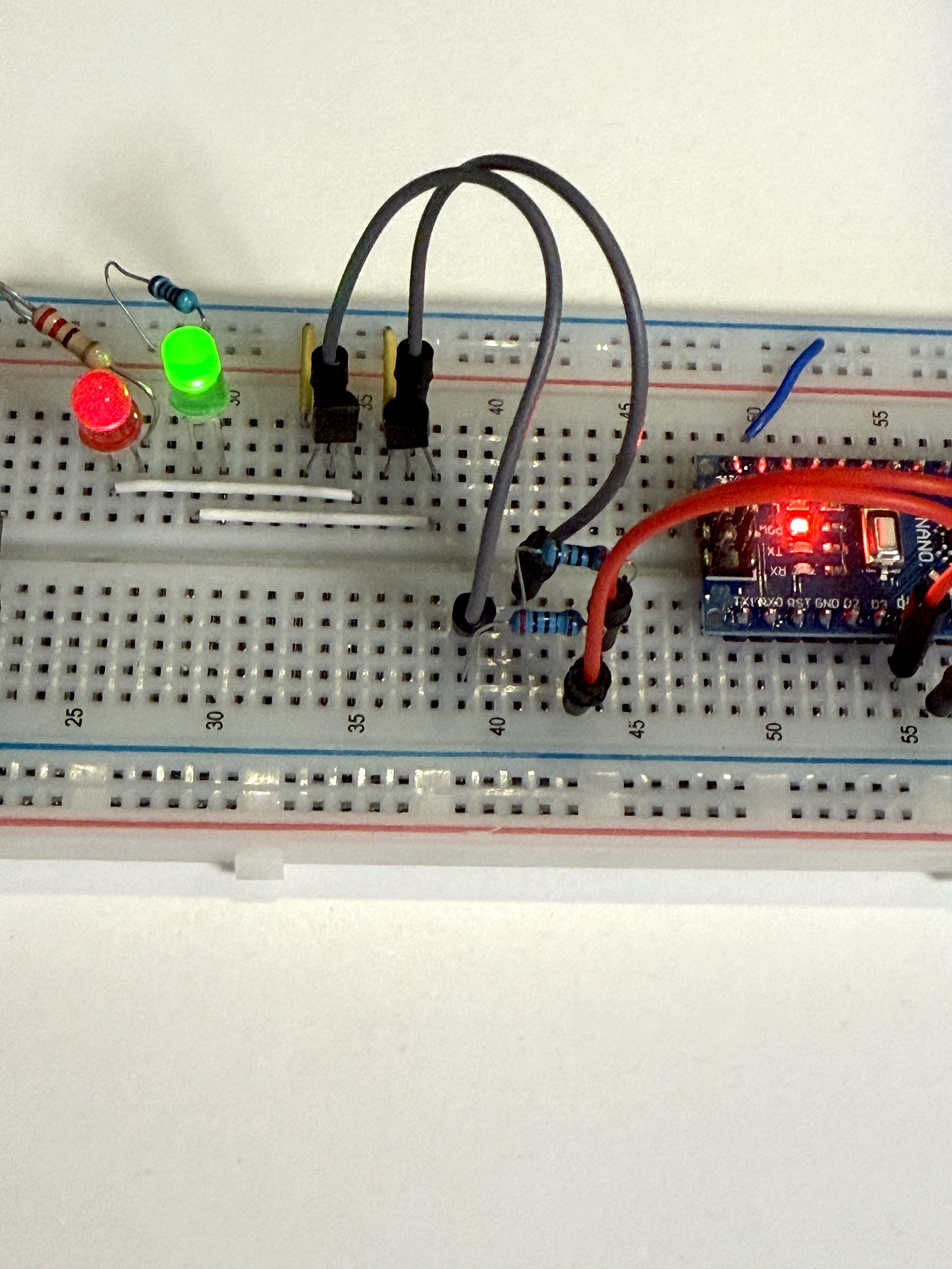
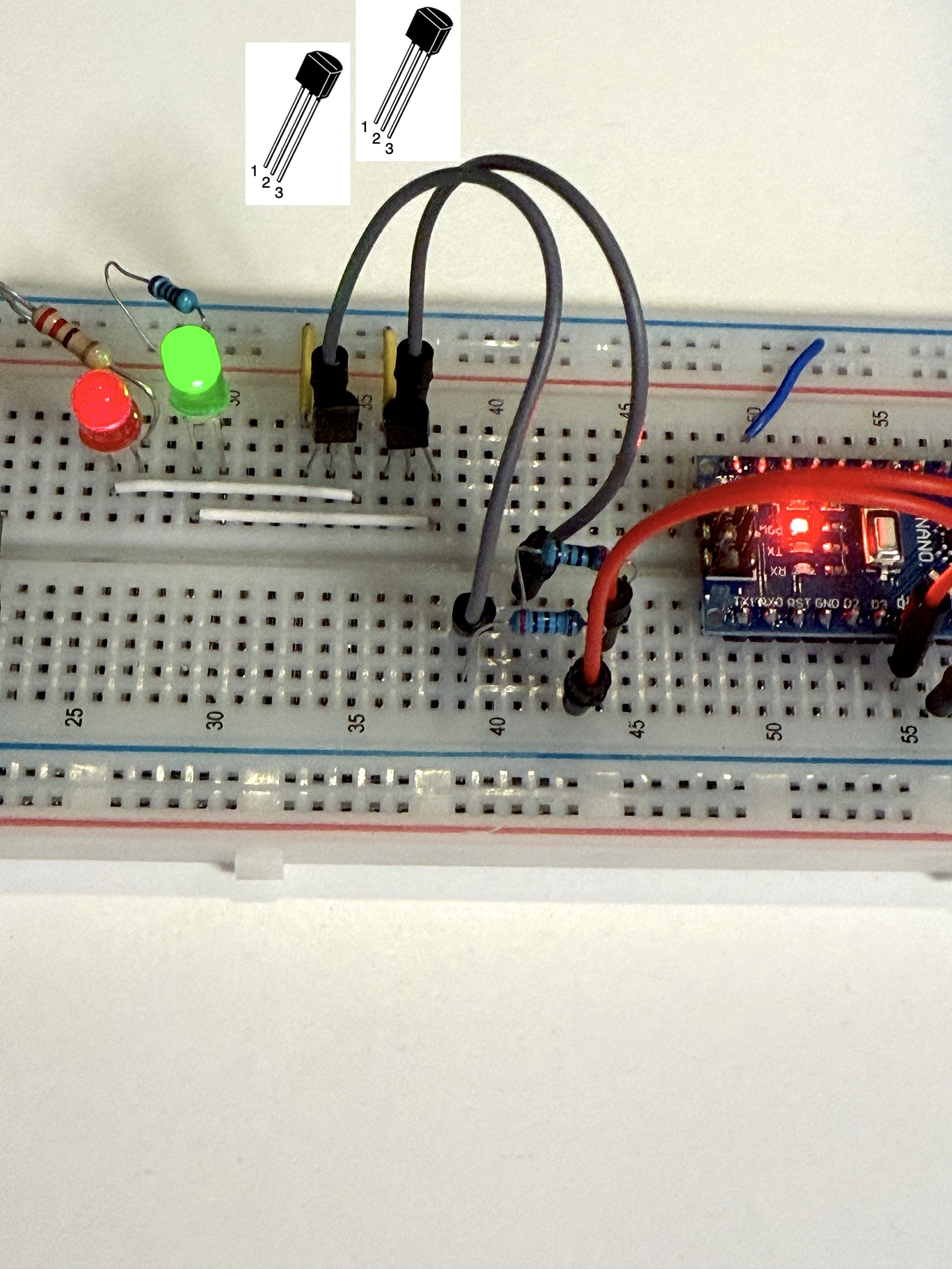
Add Project 4: 1 bit of memory

diff --git a/index.md b/index.md
@@ -17,10 +17,6 @@ The outputs are connected to LEDs to easily observe their states. Gates act inde
 - Red LED: 330Ω
 - Red LED: 220Ω (probably)
 
-
-
-
-
 ---
 
 
@@ -75,6 +71,7 @@ Code:
 - D5+ 2.0 kΩ to Base of T2
 - GND to GND of the power source
 
+PN2222 Collector -> LED cathode  / 2x
 
 #### Conditions and assumptions:
 Arduino Nano pin is 5 V. 
@@ -113,9 +110,54 @@ I_C ≈ 21.7 mA
 
 
 ![Image](attachments/ee-5.jpeg)
+
 ![Image](attachments/ee-6.jpeg)
+
 ![Image](attachments/ee-7.jpeg)
+
 ![Image](attachments/ee-8.jpeg)
+
+
+
+---
+
+
+## Project #4
+### Implementing 1 bit of memory 
+
+The "memory" is built on an SR latch using 2 NOR gates.
+
+The two chips below implement NOR gates because I didn't have a single NOR chip). There are 2 NOR gates on the board, as needed to implement a single SR latch device.
+
+- `SN74HC32N (7432)`  [SNx4HC32 Quadruple 2-Input OR Gates](docs/sn74hc32.pdf)
+- `SN74HC04N (7404)`  [SNx4HC04 Hex Inverters](docs/sn74hc04.pdf)
+
+SR latch is a type of memory device that remembers 1 bit. The SR latch has
+two inputs: S (set) and R (reset), and an output Q, the single bit that is "remembered".
+
+- The red LED represents Q
+- The blue LED represents "not Q" to visualize circuit state
+- When using an SR latch we typically only look at Q to determine whether the bit is true or false.
+
+
+---
+
+
+
+On the first picture below S is pressed, so the Q is HIGH, meaning that the bit is 1. The state is remembered.
+
+![Image](attachments/ee-9.jpeg)
+
+
+On the first picture below R was pressed, so the Q is LOW, and "not Q" is HIGH (the blue LED).
+
+![Image](attachments/ee-10.jpeg)
+
+![Image](attachments/ee-11.jpeg)
+
+![Image](attachments/ee-12.jpeg)
+
+![Image](attachments/ee-13.jpeg)
 
 
 ---
